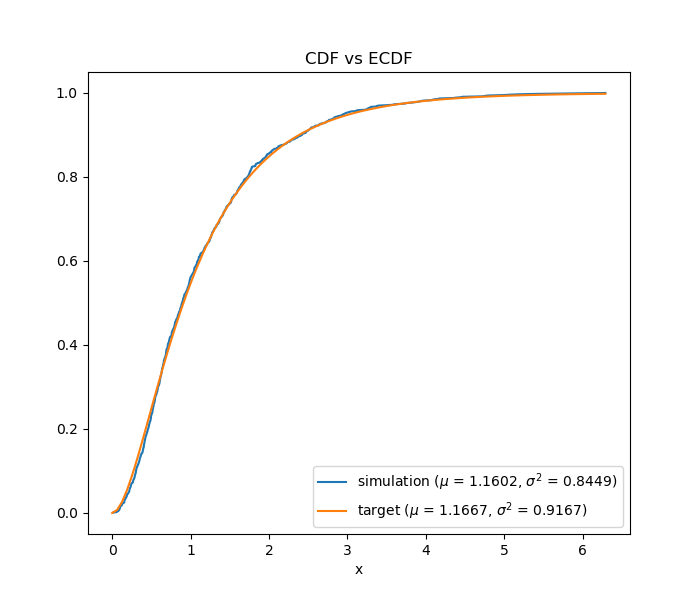
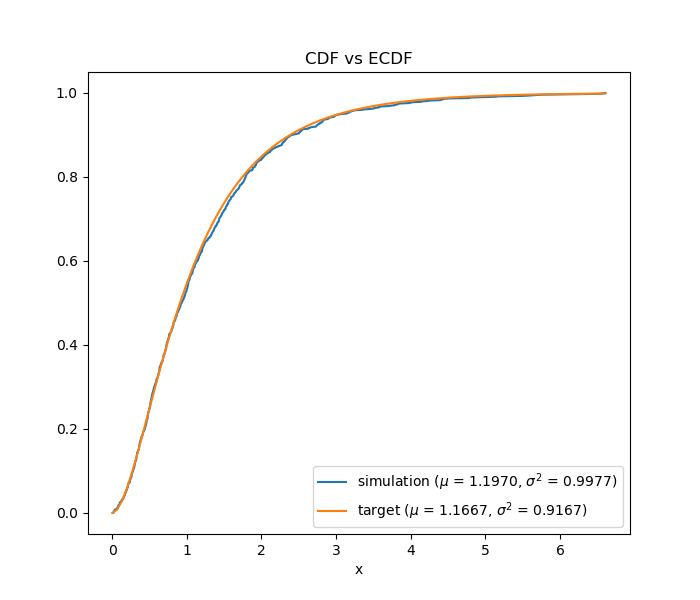
minor fixes in simulate.py docstrings and gamma rv

diff --git a/chapter5/python/simulate.py b/chapter5/python/simulate.py
@@ -28,8 +28,8 @@ class RVContinuous(object):
         # set support and pdf/cdf for known distributions
         if name == 'gamma':
             support = (0.0, np.inf)
-            cdf = lambda x, shape, scale: gamma.cdf(x/scale, shape)/scale
-            pdf = lambda x, shape, scale: gamma.pdf(x/scale, shape)/scale
+            cdf = lambda x, shape, scale: gamma.cdf(x, shape, scale = scale)
+            pdf = lambda x, shape, scale: gamma.pdf(x, shape, scale = scale)
 
         # assign basic attributes
         self.name = name # name of the random variable
@@ -191,7 +191,7 @@ def rejection(target_rv, helper_sim, ratio_bound):
     The accept-reject method for sampling.
     target_rv = target random variable.
     helper_sim = simulation for helper random variable with pdf assigned.
-    rato_bound = an upper bound for the ratio of the pdfs.
+    ratio_bound = an upper bound for the ratio of the pdfs.
     """
     while True:
         sample = helper_sim.algorithm()
@@ -224,13 +224,13 @@ class Simulation(object):
         self.set_algorithm(algorithm, **algorithm_args)
 
     @timer
-    def generate(self, sample_size, *args):
+    def generate(self, sample_size):
         """
         Generates a batch of samples using self.algorithm
         args are the arguments that are passed to self.algorithm ???
         """
         self.size = sample_size # number of samples to be collected
-        self.samples = [self.algorithm(*args) for i in range(self.size)] # container for the collected samples
+        self.samples = [self.algorithm() for i in range(self.size)] # container for the collected samples
         self.mean = np.mean(self.samples)
         self.var = np.var(self.samples, ddof = 1) # unbiased estimator
 
@@ -240,7 +240,6 @@ class Simulation(object):
         file_path is the location where the image file is saved, image file is not saved in case file_path = None (default).
         The plot is displayed on screen if display = True (default).
         target_cdf_pts is the number of points used to plot the target cdf.
-        inf_limits is a finite interval for np.linspace in case rv.pdf has unbounded support.
         """
         # compute target mean and variance if not already computed
         self.rv.set_unset_stats(('mean', 'var'))
